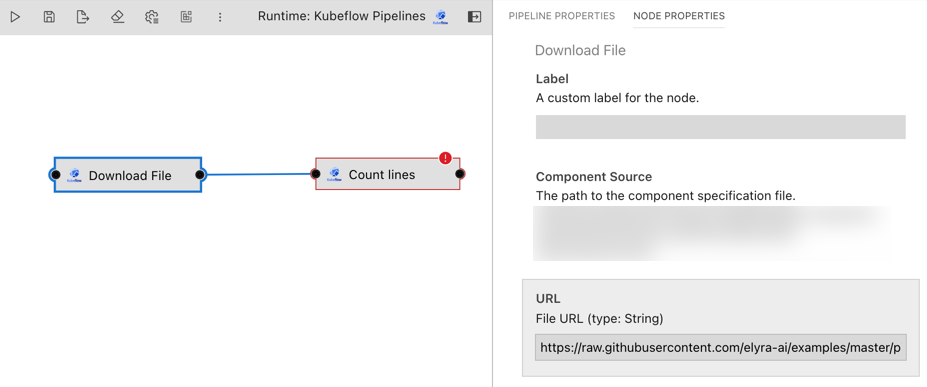
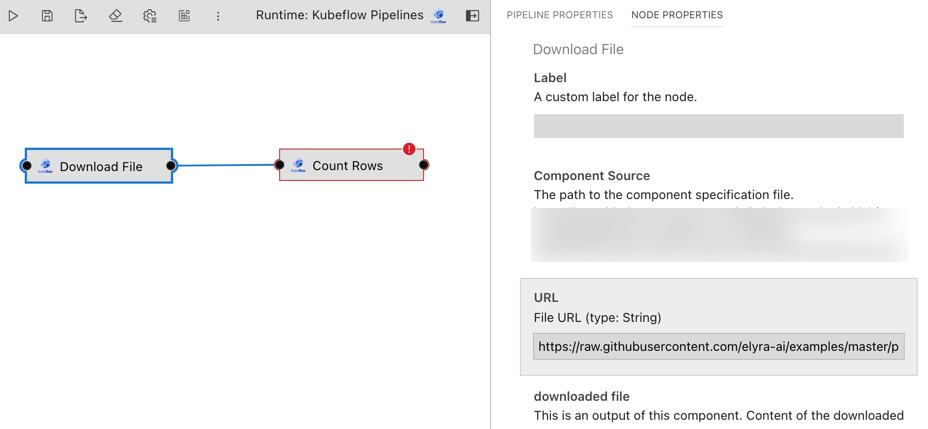
Add instructions and remove tutorial assets

diff --git a/pipelines/run-pipelines-on-kubeflow-pipelines/README.md b/pipelines/run-pipelines-on-kubeflow-pipelines/README.md
@@ -28,13 +28,13 @@ The following tutorials cover generic pipelines:
 
 A _runtime specific_ pipeline comprises nodes that are implemented using generic components or _custom components_. Custom components are runtime specific and user-provided.
 
-In this intermediate tutorial you will learn how to add [Kubeflow components](TODO-LINK) to Elyra and how to utilize them in pipelines.
+In this intermediate tutorial you will learn how to add [Kubeflow components](https://www.kubeflow.org/docs/components/pipelines/sdk/component-development/) to Elyra and how to utilize them in pipelines.
 
 ![The completed tutorial pipeline](doc/images/completed-tutorial-pipeline.png)
 
 The features described in this tutorial require Elyra v3.2.0. The tutorial instructions were last updated using Elyra v3.2.0 and Kubeflow v1.3.0.
 
-> Elyra v.3.2.0 does not support [Kubeflow Pipelines Python components](TODO-LINK).
+> Elyra v.3.2.0 does not support [Kubeflow Pipelines Python components](https://www.kubeflow.org/docs/components/pipelines/sdk/python-function-components/).
 
 ### Prerequisites
 
@@ -152,7 +152,7 @@ The pipeline editor's palette is populated from the component registry. To use t
 
 1. Open the JupyterLab Launcher.
 1. Click the `Kubeflow pipeline editor` tile to open the Visual Pipeline Editor for Kubeflow Pipelines.
-1. Expand the palette panel. Two new component categories are displayed (`analyze` and `download`), each containing one component entry that you've added:
+1. Expand the palette panel. Two new component categories are displayed (`analyze` and `download`), each containing one component entry that you added:
    ![Palette with custom components](doc/images/palette-with-custom-components.png)
 1. Drag the `Download File` component onto the canvas to create the first pipeline node.
 1. Drag the `Count Rows` component onto the canvas to create a second node and connect the two nodes as shown.
@@ -161,14 +161,84 @@ The pipeline editor's palette is populated from the component registry. To use t
 
    Note that each node is tagged with an error icon. Hover over each node and review the error messages. The components require inputs, which you need to specify to render the nodes functional.
 1. Open the properties of the `Download File` node (right click on the node and select `Open Properties`).
-1. This node requires one input - the URL of a file. Enter `https://raw.githubusercontent.com/elyra-ai/examples/master/pipelines/run-pipelines-on-kubeflow-pipelines/data/data.csv`.
+1. Review the node properties. The properties are a combination of Elyra-specific properties and information that was extracted from the [underlying component's specification](https://raw.githubusercontent.com/elyra-ai/examples/master/pipelines/run-pipelines-on-kubeflow-pipelines/components/download-file.yaml):
+   ```
+   name: Download File
+   description: Downloads a file from a public HTTP/S URL using a GET request.
+
+   inputs:
+   - {name: URL, type: String, optional: false, description: 'File URL'}
+
+   outputs:
+   - {name: downloaded file, type: String, description: 'Content of the downloaded file.'}
+   ...
+   ```
+
+   - `Label`: If specified, the value is used as node name in the pipeline instead of the component name. Use labels to resolve naming conflicts that might arise if a pipeline uses the same component multiple times. For example, if a pipeline utilizes  the `Download File` component to download two files, you could override the node name by specifying `Download labels` and `Download observations` as labels:
+
+      ![Use labels to produce unique node names](doc/images/label-example.png)
+   - `Component source`: A read-only property that identifies the location from where the component specification was loaded. This property is displayed for informational purposes only.
+   - `URL`: This is a required input that the `Download File` component specification defines:
+      ```
+      inputs:
+      - {name: URL, type: String, optional: false, description: 'File URL'}
+      ```
+      The pipeline editor renders it using an editable widget, such as a text box, and, if specified, the description.
+
+      ![Rendering of a component input in the pipeline editor](doc/images/rendering-of-a-component-input.png) 
+   - `downloaded file`: This is an output that the `Download File` component specification defines:
+      ```
+      outputs:
+      - {name: downloaded file, type: String, description: 'Content of the downloaded file.'}
+      ```
+      The pipeline editor renders outputs using read-only widgets.
+
+      ![Rendering of a component output in the pipeline editor](doc/images/rendering-of-a-component-output.png) 
+
+1. Enter `https://raw.githubusercontent.com/elyra-ai/examples/master/pipelines/run-pipelines-on-kubeflow-pipelines/data/data.csv` as value for the `URL` input property.
 
    ![Configure download node](doc/images/configure-download-node.png)
 
-1. Open the properties of the `Count Rows` node.
-1. This node also requires one input - the content of a file to be analyzed. TODO (requires [PR 2094](https://github.com/elyra-ai/elyra/pull/2094))
+1. Open the properties of the `Count Rows` node. The [specification for the underlying component looks as follows](https://raw.githubusercontent.com/elyra-ai/examples/master/pipelines/run-pipelines-on-kubeflow-pipelines/components/count-rows/count-rows.yaml):
+   ```
+   name: Count Rows
+   description: Count the number of rows in the input file
+
+   inputs:
+   - {name: input file, type: String, optional: false, description: 'Row-based file to be analyzed'}
+
+   outputs:
+   - {name: row count, type: String, description: 'Number of rows in the input file.'}
+   ...
+   implementation:
+   ...
+    command: [
+      python3, 
+      /pipelines/component/src/count-rows.py,
+      --input-file-path,
+      {inputPath: input file},
+   ...
+   ```
+
+   The component requires one input ('`input file`') and produces one output ('`row count`'), which is the number of rows in this file.
+
+   Note that Kubeflow Pipelines passes the input the the implementing Python script as a file handle:
+   ```
+   --input-file-path,
+      {inputPath: input file},
+   ```   
+
+   The pipeline editor takes this as a cue and renders a selector widget for this input:
 
    ![Configure Count Rows node](doc/images/configure-count-rows-node.png)
+
+   Since the `Count Rows` node is only connected to one upstream node ('`Download File`'), you can only choose from the outputs of that node. If a node is connected to multiple upstream nodes, you can choose the output of any of these nodes as input, as shown in this example:
+
+   ![Selecting outputs from upstream nodes](doc/images/upstream-nodes-example.png) 
+
+   The output of the second download node ('`Download metadata`') cannot be consumed by the `Count Rows` node, because the two nodes are not connected in this pipeline. 
+   
+   > Elyra intentionally only supports explicit dependencies between nodes to avoid potential usability issues.
 
 1. Save the pipeline.
 
